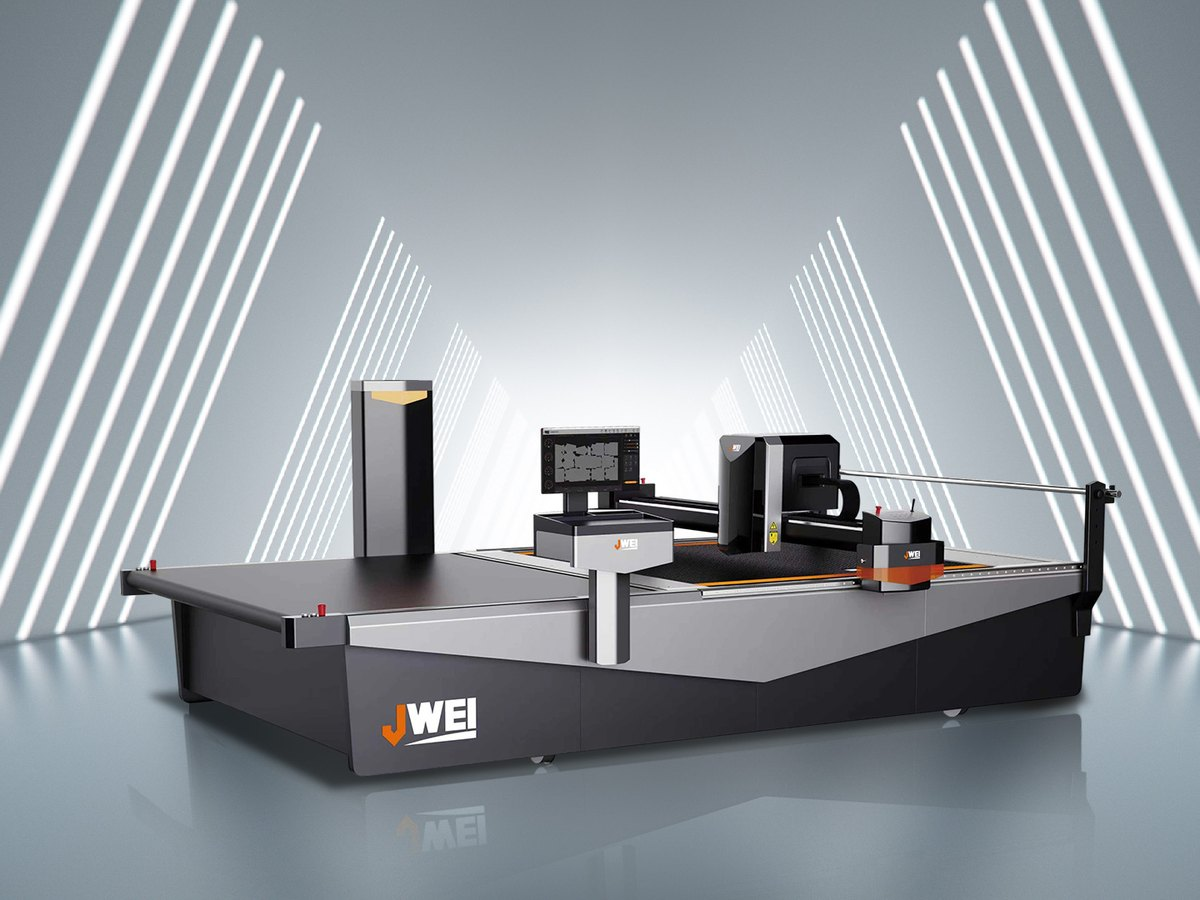
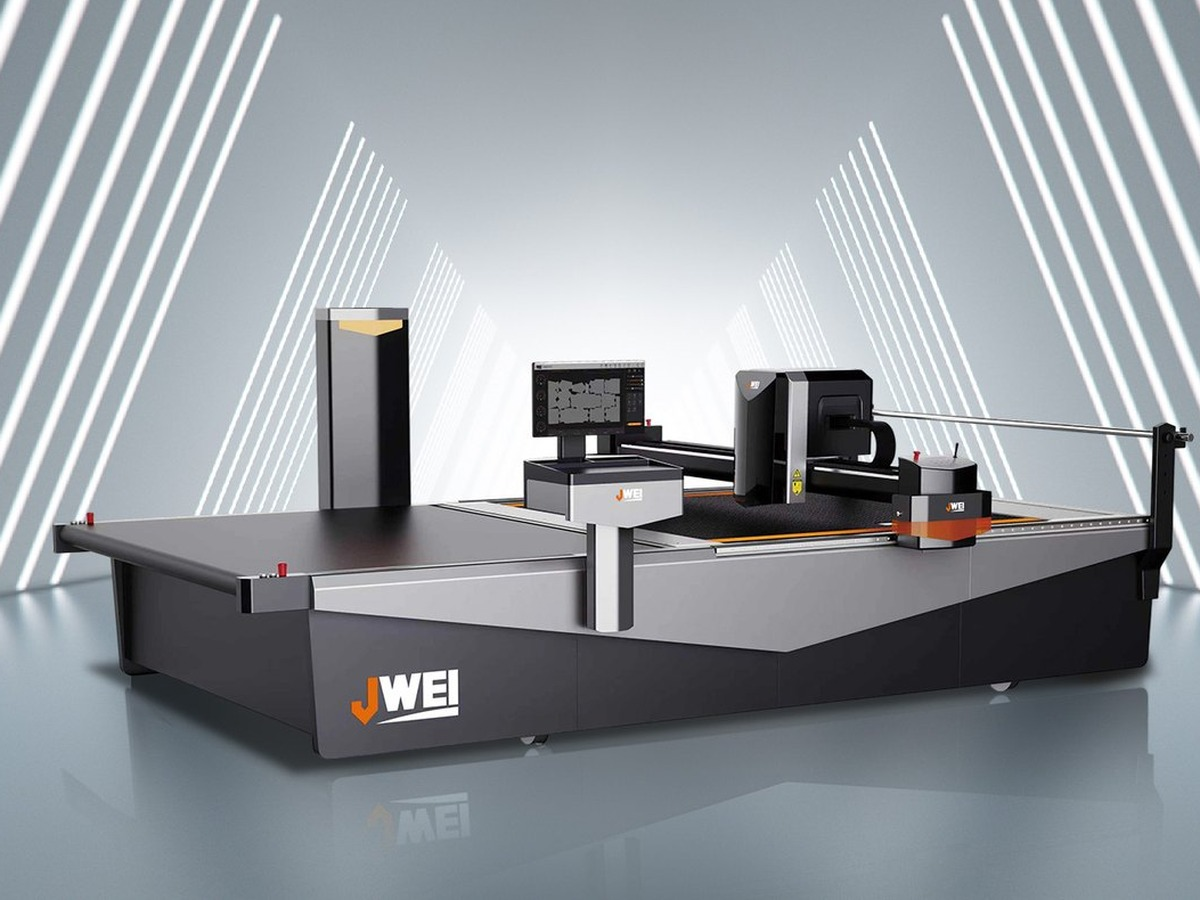
feat: add email field to contact form; fix: crop MI60 belt image
Contact form was missing an email address field, so DeNova had no way
to reply to an enquiry. Adds a required email input, validates it
server-side, and sets it as replyTo on the notification email so
replying just works from the inbox.

Also tightens the crop on the MI60 belt image — it had ~40% dead
studio-background headroom above the machine, making that card look
smaller/more distant than its siblings on the product conveyor. Cropped
in at the source (full machine still in frame) and rescaled back to
the original 1200x900 so no component changes were needed.

diff --git a/app/api/contact/route.ts b/app/api/contact/route.ts
@@ -4,20 +4,25 @@ import { Resend } from "resend";
 export async function POST(req: NextRequest) {
   const resend = new Resend(process.env.RESEND_API_KEY ?? "");
   try {
-    const { name, company, country, message } = await req.json() as {
+    const { name, email, company, country, message } = await req.json() as {
       name: string;
+      email: string;
       company: string;
       country: string;
       message: string;
     };
 
-    if (!name || !company || !country || !message) {
+    if (!name || !email || !company || !country || !message) {
       return NextResponse.json({ error: "Missing required fields" }, { status: 400 });
+    }
+    if (!/^[^\s@]+@[^\s@]+\.[^\s@]+$/.test(email)) {
+      return NextResponse.json({ error: "Invalid email address" }, { status: 400 });
     }
 
     await resend.emails.send({
       from: "DeNova Website <noreply@denovatec.com>",
       to: ["dinesh@denovatech.com"],
+      replyTo: email,
       subject: `New Enquiry from ${company} (${country})`,
       html: `
         <div style="font-family: 'IBM Plex Sans', Arial, sans-serif; max-width: 600px; margin: 0 auto; background: #142250; color: #f8fafc; padding: 32px;">
@@ -26,6 +31,10 @@ export async function POST(req: NextRequest) {
             <tr>
               <td style="padding: 8px 0; color: #94A3B8; font-size: 12px; text-transform: uppercase; letter-spacing: 0.1em; width: 120px;">Name</td>
               <td style="padding: 8px 0; color: #f8fafc;">${name}</td>
+            </tr>
+            <tr>
+              <td style="padding: 8px 0; color: #94A3B8; font-size: 12px; text-transform: uppercase; letter-spacing: 0.1em;">Email</td>
+              <td style="padding: 8px 0; color: #f8fafc;">${email}</td>
             </tr>
             <tr>
               <td style="padding: 8px 0; color: #94A3B8; font-size: 12px; text-transform: uppercase; letter-spacing: 0.1em;">Company</td>

diff --git a/components/Contact.tsx b/components/Contact.tsx
@@ -54,6 +54,7 @@ export default function Contact() {
     const form = e.currentTarget;
     const data = {
       name: (form.elements.namedItem("name") as HTMLInputElement).value,
+      email: (form.elements.namedItem("email") as HTMLInputElement).value,
       company: (form.elements.namedItem("company") as HTMLInputElement).value,
       country: (form.elements.namedItem("country") as HTMLSelectElement).value,
       message: (form.elements.namedItem("message") as HTMLTextAreaElement).value,
@@ -225,6 +226,19 @@ export default function Contact() {
                   required
                   className="w-full bg-[#1B2F68] border border-white/10 text-white px-4 py-3 text-sm placeholder-white/30 focus:border-[#29B8E8] focus:outline-none transition-colors"
                   placeholder="Your name"
+                />
+              </div>
+              <div>
+                <label htmlFor="email" className="text-[10px] font-mono uppercase tracking-widest text-[#94A3B8] block mb-1.5">
+                  Email Address *
+                </label>
+                <input
+                  id="email"
+                  name="email"
+                  type="email"
+                  required
+                  className="w-full bg-[#1B2F68] border border-white/10 text-white px-4 py-3 text-sm placeholder-white/30 focus:border-[#29B8E8] focus:outline-none transition-colors"
+                  placeholder="you@company.com"
                 />
               </div>
               <div>
